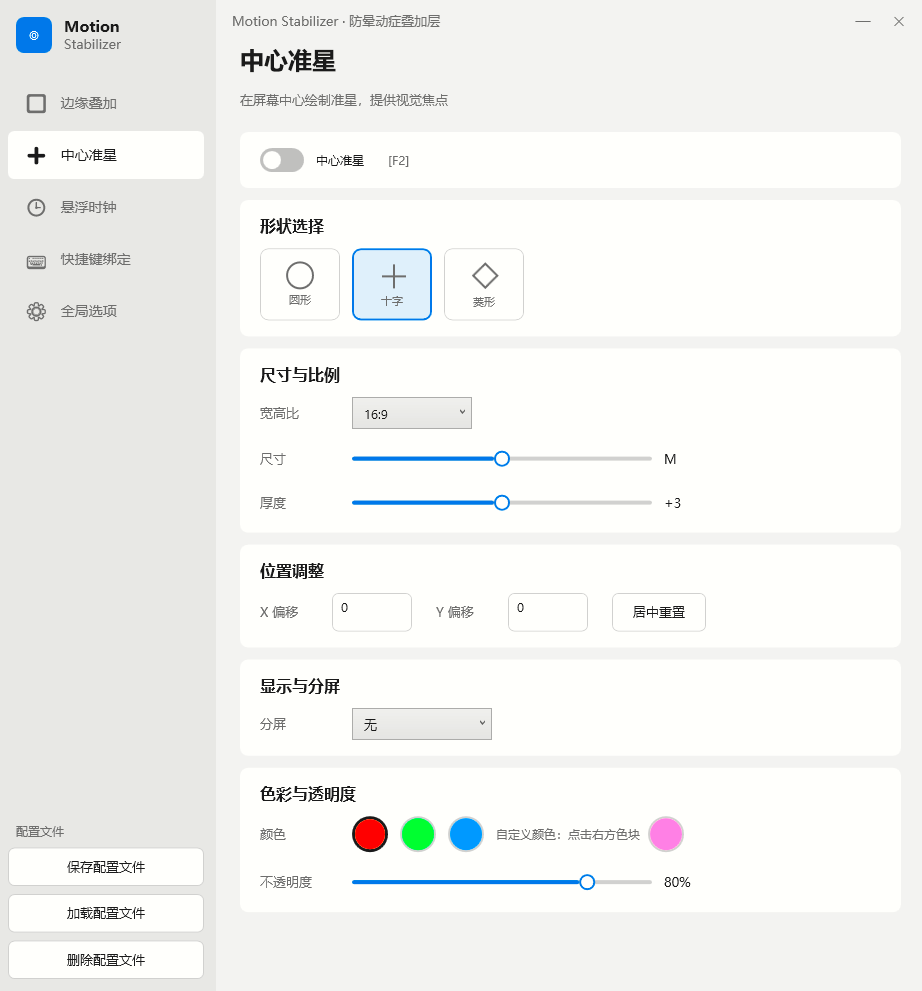
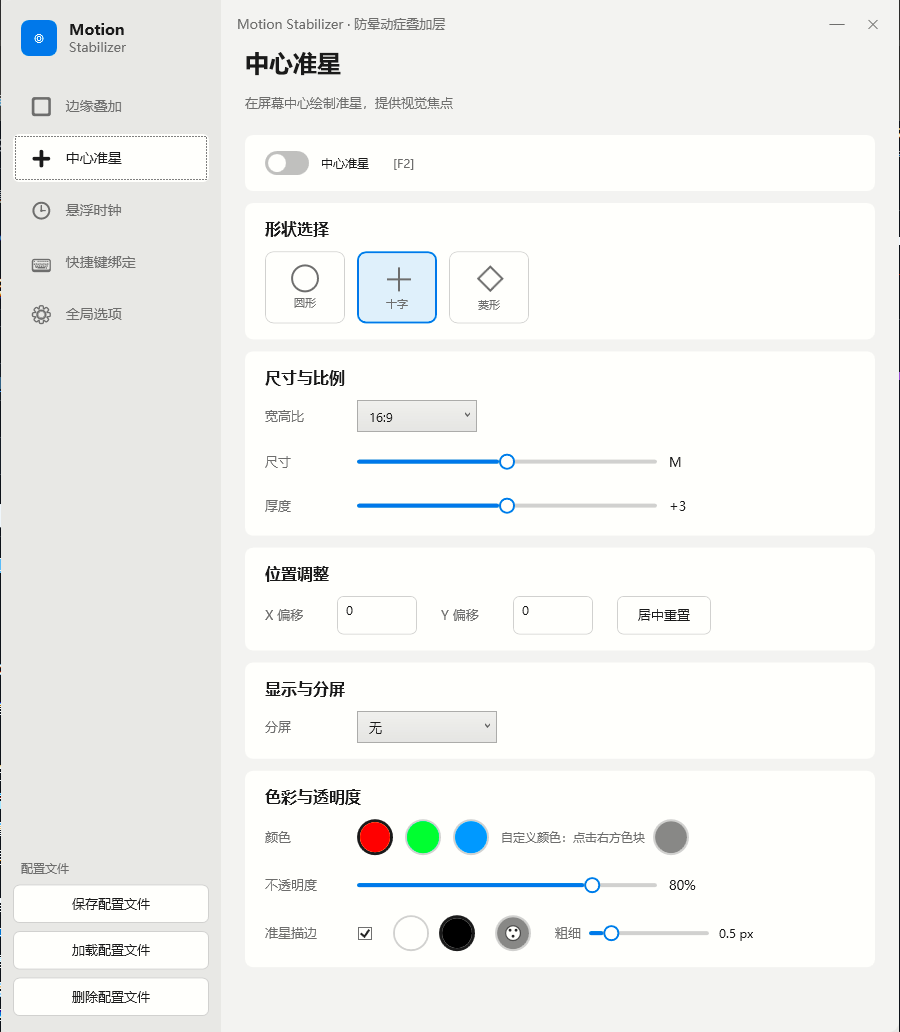
docs: refresh edge overlay and crosshair screenshots (edge overlay now PNG)

diff --git a/README.md b/README.md
@@ -16,7 +16,7 @@
     <td align="center"><b>中心准星 / Crosshair</b></td>  
   </tr>
   <tr>
-    <td><img src="docs/screenshots/边缘叠加界面.jpg" width="480" alt="边缘叠加界面" /></td>
+    <td><img src="docs/screenshots/边缘叠加界面.png" width="480" alt="边缘叠加界面" /></td>
     <td><img src="docs/screenshots/悬浮时钟界面.png" width="480" alt="悬浮时钟界面" /></td>
   </tr>
   <tr>

diff --git a/README.en.md b/README.en.md
@@ -12,7 +12,7 @@
     <td align="center"><b>In-Game Test</b></td>
   </tr>
   <tr>
-    <td><img src="docs/screenshots/边缘叠加界面.jpg" width="480" alt="Edge Overlay" /></td>
+    <td><img src="docs/screenshots/边缘叠加界面.png" width="480" alt="Edge Overlay" /></td>
     <td><img src="docs/screenshots/运行测试画面.gif" width="480" alt="In-Game Test" /></td>
   </tr>
   <tr>
